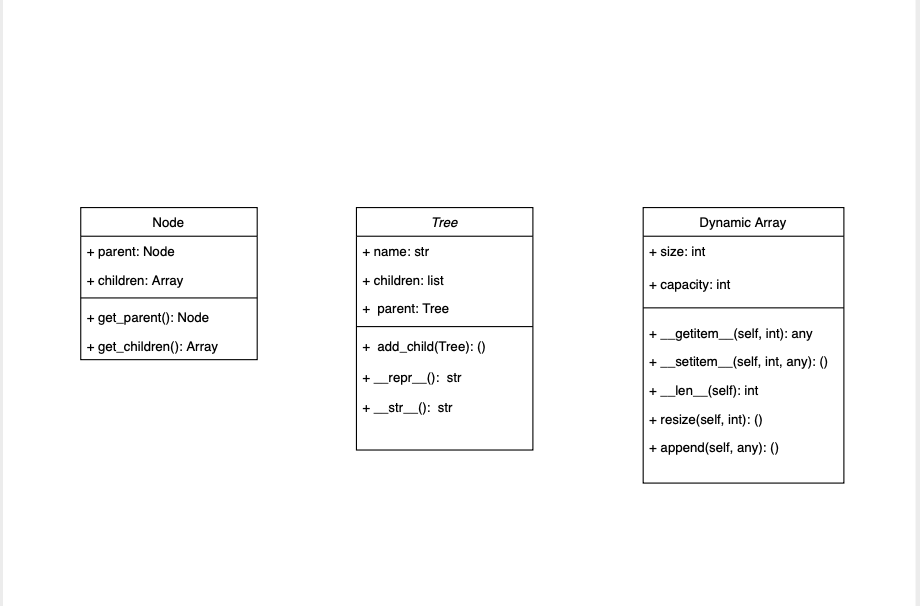
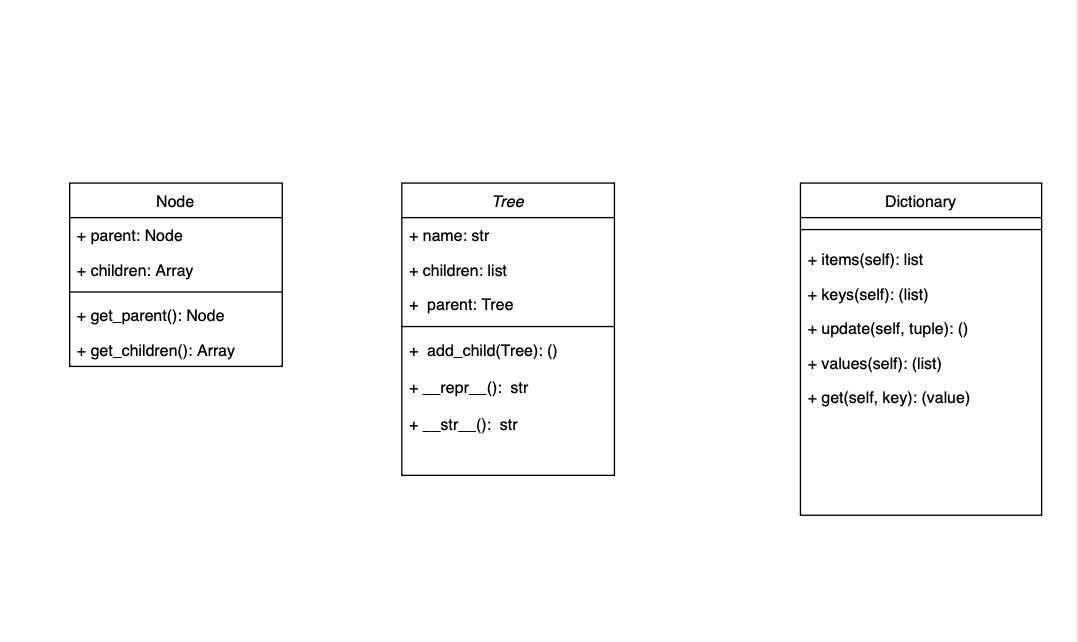
'diagrams added'

diff --git a/data_structures.py b/data_structures.py
@@ -1,51 +1,108 @@
-import array as ar
-from arrays import DynamicArray
+"""This module contains all of the abstract data types that
+will be used in this project."""
 
 
 class Tree:
-    def __init__(self, name='root', children=None):
+    """
+    Defines a tree data structure.
+    """
+    def __init__(self, root, name='root', children=None):
+        """
+        str, DynamicArray -> ()
+        Initializes a tree object.
+        """
         self.name = name
-        self.children = DynamicArray()
+        self.root = root
+        self.children = dict()
         if children is not None:
             for child in children:
                 self.add_child(child)
 
-    def add_child(self, node):
+    def add_child(self, key, node):
+        """
+        self, Node -> ()
+        Adds a child to a tree.
+        """
         assert isinstance(node, Tree)
-        self.children.append(node)
+        self.children.update((key, node))
 
     def __repr__(self):
+        """
+        self -> str
+        Forms a representation of the object.
+        """
         raise NotImplementedError
 
     def __str__(self):
+        """
+        self -> str
+        Forms a string representation of the object.
+        """
         raise NotImplementedError
 
 
 class DiseaseTree(Tree):
-    def __init__(self, name='indicators', children=None):
+    """
+    Defines a DiseaseTree.
+    """
+    def __init__(self, name='root', children=None):
+        """
+        str, DynamicArray -> ()
+        Initializes a Disease tree object.
+        """
         super().__init__(name, children)
 
     def __repr__(self):
+        """
+        self -> str
+        Forms a representation of the object.
+        """
         return self.name
 
     def __str__(self):
+        """
+        self -> str
+        Forms a string representation of the object.
+        """
         return self.name
 
-    def search(self, disease, city, gender, ethnicity):
-        return self.children[disease].children[city]
+    def search(self, disease, city, year, gender, ethnicity):
+        """
+        Searches the data structure for specific records.
+        """
+        return self.children[disease].children[city][year, gender, ethnicity]
 
 
 class Node:
-    def __init__(self, parent=None, children=None):
+    """
+    Defines a node in a tree.
+    """
+    def __init__(self, name, parent=None, children=None):
+        """
+        self, Tree, DynamicArray -> ()
+        Initializes a Disease tree object.
+        """
         self.parent = parent
         self.children = children
 
     def get_parent(self):
-        raise NotImplementedError
+        """
+        self -> Tree
+        Gets the parent of the node.
+        """
+        return self.parent
+
 
 
 class Disease(Node):
+    """
+    Defines a Disease - a leaf in DiseaseTree.
+    """
     def __init__(self, parent, city, value, gender, ethnicity, year):
+        """
+        self, Tree, str, int, str, str, int -> ()
+        Initializes a Disease node.
+        """
         super().__init__(parent, None)
         self.city = city
         self.value = value
@@ -53,14 +110,23 @@ class Disease(Node):
         self.ethnicity = ethnicity
         self.year = year
 
-    def get_parent(self):
-        return self.parent
-
     def get_disease(self):
+        """
+        self -> str
+        Gets the disease name of the node.
+        """
         return self.parent
 
     def get_year(self):
+        """
+        self -> int
+        Gets the year of the disease record.
+        """
         return self.year()
 
     def get_indicator(self):
+        """
+        self -> str
+        Gets the indicator of the disease record.
+        """
         return self.parent.parent

diff --git a/main.py b/main.py
@@ -1,0 +1,39 @@
+"""This module contains a main function for doing experiments with the data."""
+
+import pandas as pd
+from data_structures import DiseaseTree, Node
+
+
+def data_accessor():
+    """
+    This function reads the information of
+    the example csv file and forms it as a
+    pandas DataFrame.
+    """
+    diseases_data = pd.read_csv("example.csv")
+    rows = diseases_data.shape[0]
+    diseases_tree = DiseaseTree()
+
+    for i in range(rows):
+        diseases_data = diseases_data.iloc[i]
+        indicator = str(diseases_data.values[0])
+        disease = str(diseases_data.values[1])
+        year = int(diseases_data.values[2])
+        place = str(diseases_data.values[6])
+        sex = str(diseases_data.values[3])
+        value = float(diseases_data.values[5])
+        ethnicity = str(diseases_data.values[4])
+
+        if not indicator in diseases_tree.root.children:
+            diseases_tree.add_child(Node())
+
+
+
+    # diseases_data = diseases_data.iloc[0]
+
+
+
+
+if __name__ == "__main__":
+    data_accessor()
+    # print(int(year), place, sex, value, ethnicity)
